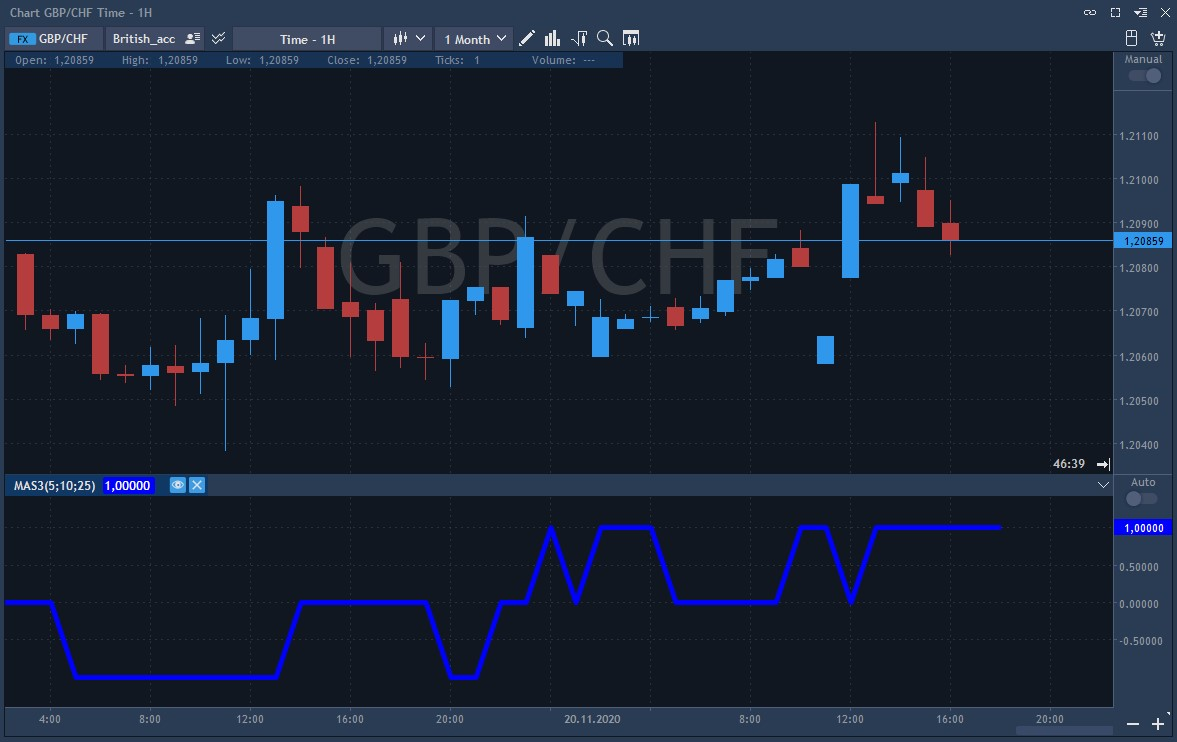
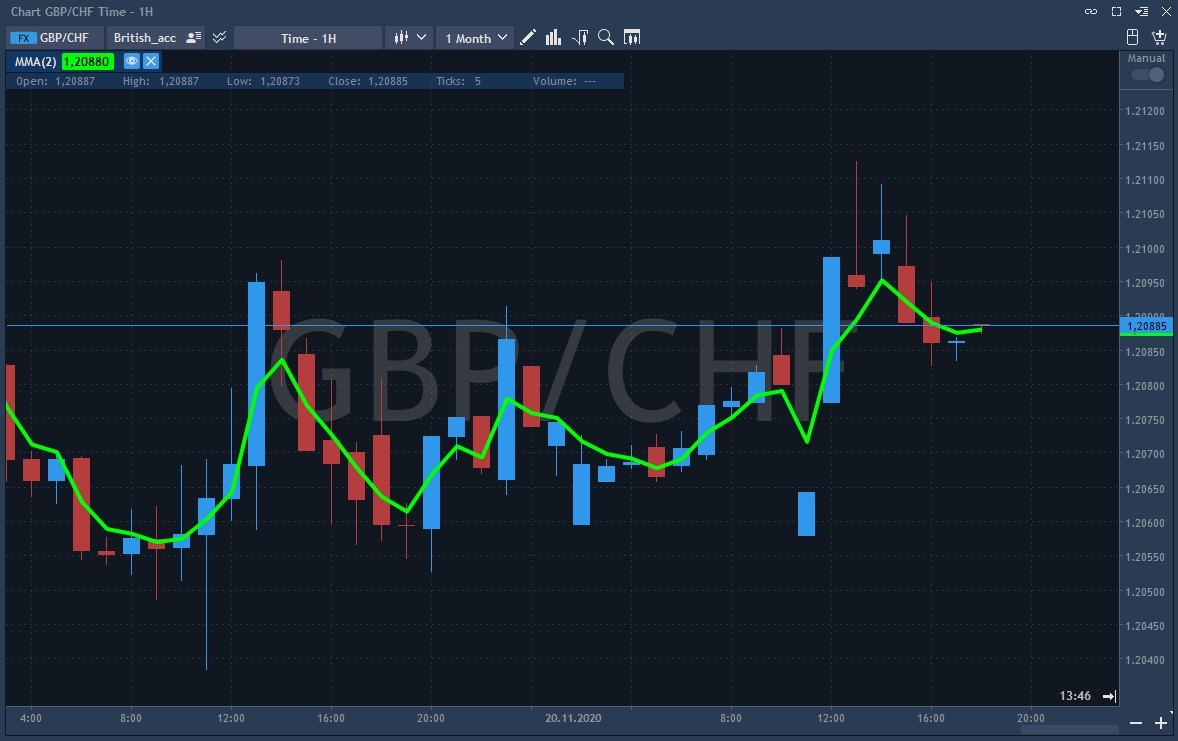
GitBook: [master] 3 pages and 2 assets modified

diff --git a/desktop-application-for-windows/windows/technical-indicators/moving-averages/mma-modified-moving-average.md b/desktop-application-for-windows/windows/technical-indicators/moving-averages/mma-modified-moving-average.md
@@ -1,0 +1,23 @@
+# MMA \(Modified moving average\)
+
+Modified moving average \(MMA\) is an algebraic tool that makes averages more susceptible to price shifts. The modified moving average is a special case of the exponential moving average, for which the smoothing constant is equal to the reciprocal of the smoothing interval. This average is a slope that helps it catch up with the rising or falling value of the currency's trading price.
+
+In general, modified moving averages resemble simple moving averages but there are some differences. The first point of the modified moving average is calculated precisely as the first point of the simple moving average. However, all subsequent points are measured by adding the new price and then subtracting the last average from the resulting sum. MMA is the difference, the new point on the scheme.
+
+### Calculation
+
+MMA = price \* K + MMA \* \(1.0 – K\), where
+
+K = 1/ N
+
+N - period of MA for calculation
+
+### Main parameters
+
+* Period of Modified MA – number of periods for calculating the modified moving average, 2 by default;
+* Source price for MA – determines the type of price at which the moving average will be calculated, available values: Close, Open, High, Low, Median, Typical, and Weighted.
+
+This indicator looks as follows on the chart:
+
+![](../../../../.gitbook/assets/screenshot_1%20%2816%29.jpg)
+

diff --git a/SUMMARY.md b/SUMMARY.md
@@ -53,6 +53,7 @@
         * [LWMA \(Linear weighted moving average\)](desktop-application-for-windows/windows/technical-indicators/moving-averages/lwma-linear-weighted-moving-average.md)
         * [MAS3 \(3MASignal\)](desktop-application-for-windows/windows/technical-indicators/moving-averages/mas3-3masignal.md)
         * [MD \(McGinley dynamic\)](desktop-application-for-windows/windows/technical-indicators/moving-averages/md-mcginley-dynamic.md)
+        * [MMA \(Modified moving average\)](desktop-application-for-windows/windows/technical-indicators/moving-averages/mma-modified-moving-average.md)
     * [Trading panels](desktop-application-for-windows/windows/trading-panels/README.md)
       * [Order entry](desktop-application-for-windows/windows/trading-panels/order-entry.md)
       * [Super DOM](desktop-application-for-windows/windows/trading-panels/super-dom.md)

diff --git a/desktop-application-for-windows/windows/technical-indicators/moving-averages/mas3-3masignal.md b/desktop-application-for-windows/windows/technical-indicators/moving-averages/mas3-3masignal.md
@@ -37,5 +37,5 @@ If none of the conditions is met, then the indicator value for this calculation 
 
 This technical indicator looks as follows on the chart:
 
-![](../../../../.gitbook/assets/screenshot_1%20%2816%29.jpg)
+![](../../../../.gitbook/assets/screenshot_1%20%2817%29.jpg)
 
